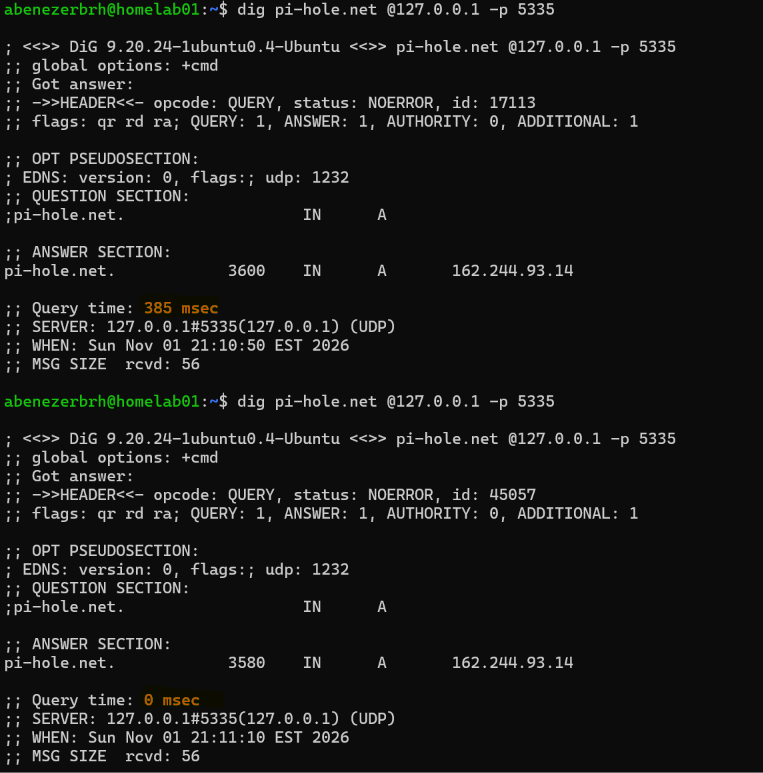
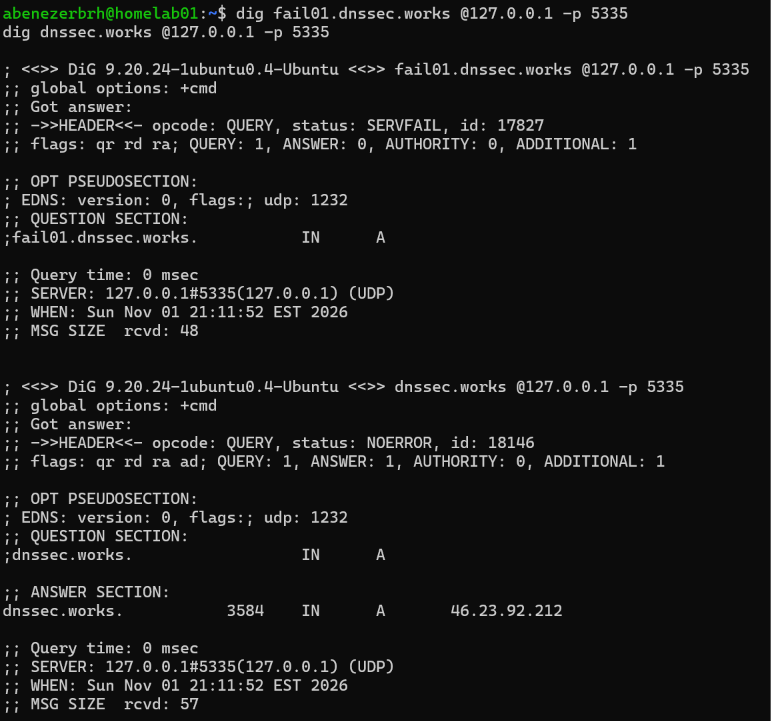
03:added screenshots and updated readme

diff --git a/03-dns-dhcp/README.md b/03-dns-dhcp/README.md
@@ -237,7 +237,83 @@ Restarting Unbound cleared its cache, so the lookup had to start from the root s
 
 ## 9. Local DNS Records
 
-_To be added_
+I added local DNS records in Pi-hole so I can reach devices by name instead of by IP address.
+
+I used the `.home.arpa` ending because it's officially reserved for home networks, so it will never clash with a real website. Made-up endings like `.lab` could become real domains someday, and `.local` is used by mDNS, which can cause conflicts.
+
+### Records added
+
+Added under **Settings → Local DNS Records** in the Pi-hole admin page:
+
+| Type | Name | Points to |
+|---|---|---|
+| DNS (A) | `homelab01.home.arpa` | `192.168.1.78` |
+| CNAME | `pihole.home.arpa` | `homelab01.home.arpa` |
+
+The CNAME is an alias: `pihole.home.arpa` is another name for homelab01. If homelab01's IP changes, only the A record needs updating.
+
+**Screenshot 8**
+
+![Screenshot 8](screenshots/08.png)
+
+### Testing from the laptop
+
+```powershell
+nslookup homelab01.home.arpa
+nslookup pihole.home.arpa
+ssh abenezerbrh@homelab01.home.arpa
+```
+
+#### Observations
+
+- At first, both lookups failed with "Non-existent domain," and SSH said "Could not resolve hostname." The server in the output was `Telus` (192.168.1.254), the router, which has never heard of my local names.
+- My laptop's DNS was set to automatic on this network, so it used the router from DHCP. I had set Pi-hole as the DNS server before, but Windows 11 saves DNS settings per Wi-Fi network, and that setting was for a different network.
+- After setting this network's DNS to Pi-hole (192.168.1.78) manually, `nslookup pihole.home.arpa` returned `homelab01.home.arpa` at 192.168.1.78, with `pihole.home.arpa` listed as an alias. The CNAME worked.
+
+### Problem: Local DNS names didn't resolve on the laptop
+
+#### Cause
+
+The laptop was asking the router for DNS, not Pi-hole. Its DNS setting for this Wi-Fi network was automatic, so it used the router handed out by DHCP. Local records only exist in Pi-hole, so the router replied that the names didn't exist.
+
+#### Fix
+
+Set the laptop's DNS for this network to Pi-hole (192.168.1.78) manually.
+
+#### Verified
+
+`nslookup` showed `Server: pi.hole`, and the local names resolved to 192.168.1.78.
+
+**Screenshot 9**
+
+![Screenshot 9](screenshots/09.png)
+
+### Testing from homelab01
+
+```bash
+dig homelab01.home.arpa
+dig homelab01.home.arpa @127.0.0.1
+```
+
+#### Prediction
+
+The first lookup would fail, because homelab01 uses the router for its own DNS, and the router doesn't know about my local records. The second would work, because it asks Pi-hole directly.
+
+#### Observations
+
+- `dig homelab01.home.arpa` was answered by the router (192.168.1.254) with `status: NXDOMAIN`, meaning the name doesn't exist as far as the router knows.
+- `dig homelab01.home.arpa @127.0.0.1` was answered by Pi-hole with `status: NOERROR` and the address 192.168.1.78.
+- Pi-hole's reply had the `aa` (authoritative) flag, since the record lives in Pi-hole itself, and a TTL of 0, so clients don't cache local records and see changes right away.
+
+**Screenshot 10**
+
+![Screenshot 10](screenshots/10.png)
+
+### What was learned
+
+- Local DNS records only work for devices that actually ask Pi-hole. The router has no idea they exist.
+- homelab01 can't see its own local name by default, because it uses the router for DNS. That's the tradeoff of keeping it independent from Pi-hole for safety.
+- `dig`'s `SERVER` line shows which DNS server answered, which is the first thing to check when a name doesn't resolve.
 
 ---
 
